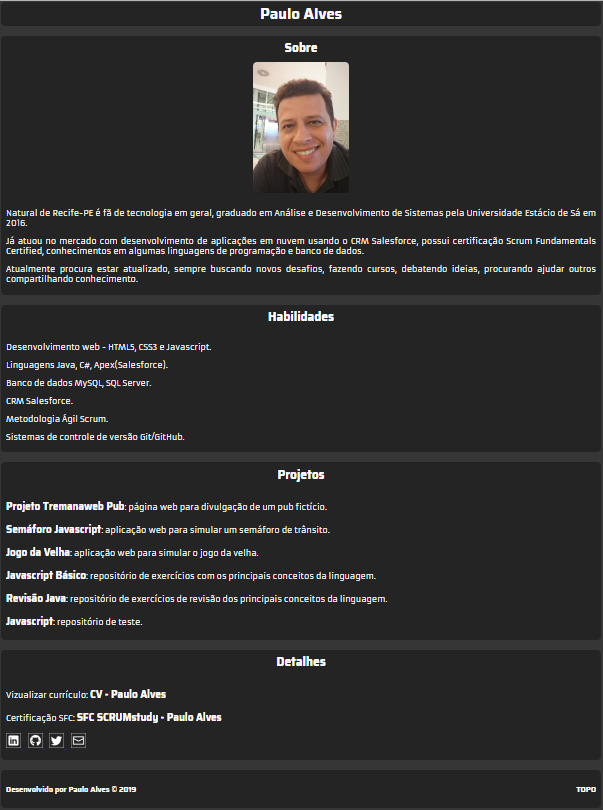
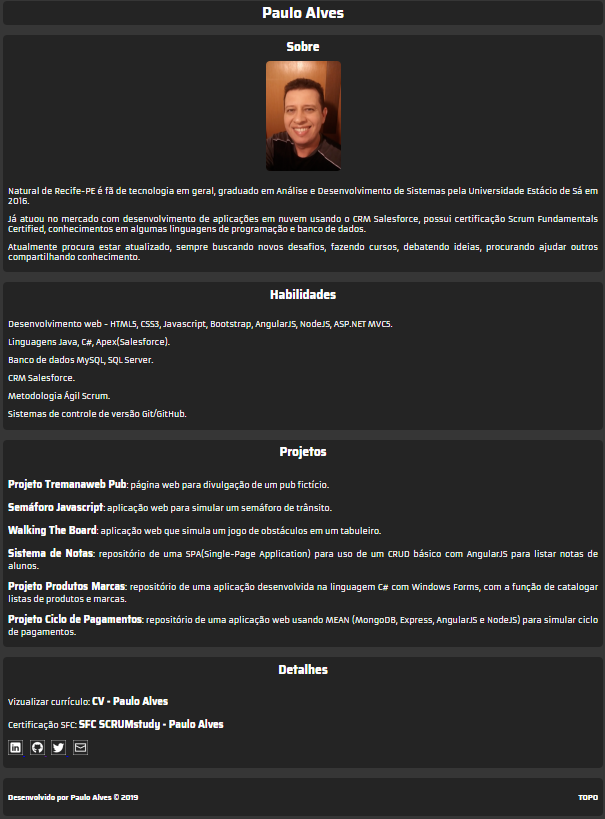
Adicionando informações atualizadas

diff --git a/index.html b/index.html
@@ -33,7 +33,7 @@
         <section class="habilidades section-container">
             <h2 class="section-title">Habilidades</h2>
             <div class="section-text">
-                <p>Desenvolvimento web - HTML5, CSS3, Javascript, Bootstrap e AngularJS.</p>
+                <p>Desenvolvimento web - HTML5, CSS3, Javascript, Bootstrap, AngularJS, NodeJS, ASP.NET MVC5.</p>
                 <p>Linguagens Java, C#, Apex(Salesforce).</p>
                 <p>Banco de dados MySQL, SQL Server.</p>
                 <p>CRM Salesforce.</p>
@@ -47,27 +47,27 @@
                 <p><a class="links-projetos" href="https://github.com/PauloAlves8039/Prejeto-Tremanaweb-Pub" target="_blank">
                     Projeto Tremanaweb Pub</a>: página web para divulgação de um pub fictício.
                 </p>
-                <p><a class="links-projetos" href="https://github.com/PauloAlves8039/Projeto-Produtos-Marcas" target="_blank">
-                    Projeto Produtos Marcas</a>: repositório de uma aplicação desenvolvida na linguagem C# com Windows Forms, com a função de catalogar listas de produtos e marcas.
+                <p><a class="links-projetos" href="https://github.com/PauloAlves8039/Samaforo-Javacript" target="_blank">
+                    Semáforo Javascript</a>: aplicação web para simular um semáforo de trânsito.
                 </p>
                 <p><a class="links-projetos" href="https://github.com/PauloAlves8039/Walking-The-Board" target="_blank">
                     Walking The Board</a>: aplicação web que simula um jogo de obstáculos em um tabuleiro.
                 </p>
-                <p><a class="links-projetos" href="https://github.com/PauloAlves8039/Samaforo-Javacript" target="_blank">
-                    Semáforo Javascript</a>: aplicação web para simular um semáforo de trânsito.
+                <p><a class="links-projetos" href="https://github.com/PauloAlves8039/Sistemas-de-Notas" target="_blank">
+                    Sistema de Notas</a>: repositório de uma SPA(Single-Page Application) para uso de um CRUD básico com AngularJS para listar notas de alunos.
+                </p>
+                <p><a class="links-projetos" href="https://github.com/PauloAlves8039/Projeto-Produtos-Marcas" target="_blank">
+                    Projeto Produtos Marcas</a>: repositório de uma aplicação desenvolvida na linguagem C# com Windows Forms, com a função de catalogar listas de produtos e marcas.
                 </p>
                 <p><a class="links-projetos" href="https://github.com/PauloAlves8039/Projeto-Ciclo-de-Pagamentos" target="_blank">
                     Projeto Ciclo de Pagamentos</a>: repositório de uma aplicação web usando MEAN (MongoDB, Express, AngularJS e NodeJS) para simular ciclo de pagamentos.
-                </p>
-                <p><a class="links-projetos" href="https://github.com/PauloAlves8039/Revisao_Java" target="_blank">
-                    Revisão Java</a>: repositório de exercícios de revisão dos principais conceitos da linguagem.
-                </p>                
+                </p>            
             </div>            
         </section>
         <section class="detalhes section-container">
             <h2 class="section-title">Detalhes</h2>
             <div class="section-text">
-                <p>Vizualizar currículo: <a class="links-projetos" href="https://drive.google.com/open?id=1iTtxQKNGWzqziArPdmioLK8hPWztV-Xe" target="_blank">
+                <p>Vizualizar currículo: <a class="links-projetos" href="https://drive.google.com/file/d/1XmCa-rDR68IpXsClU1MOuR6qCdpXO7rB/view?usp=sharing" target="_blank">
                     CV - Paulo Alves</a>
                 </p>
                 <p>Certificação SFC: <a class="links-projetos" href="http://81cd1176253f3f59d435-ac22991740ab4ff17e21daf2ed577041.r77.cf1.rackcdn.com/Certificates/ScrumFundamentalsCertified-PauloAlvesMonteiroJunior-738185.pdf" target="_blank">
